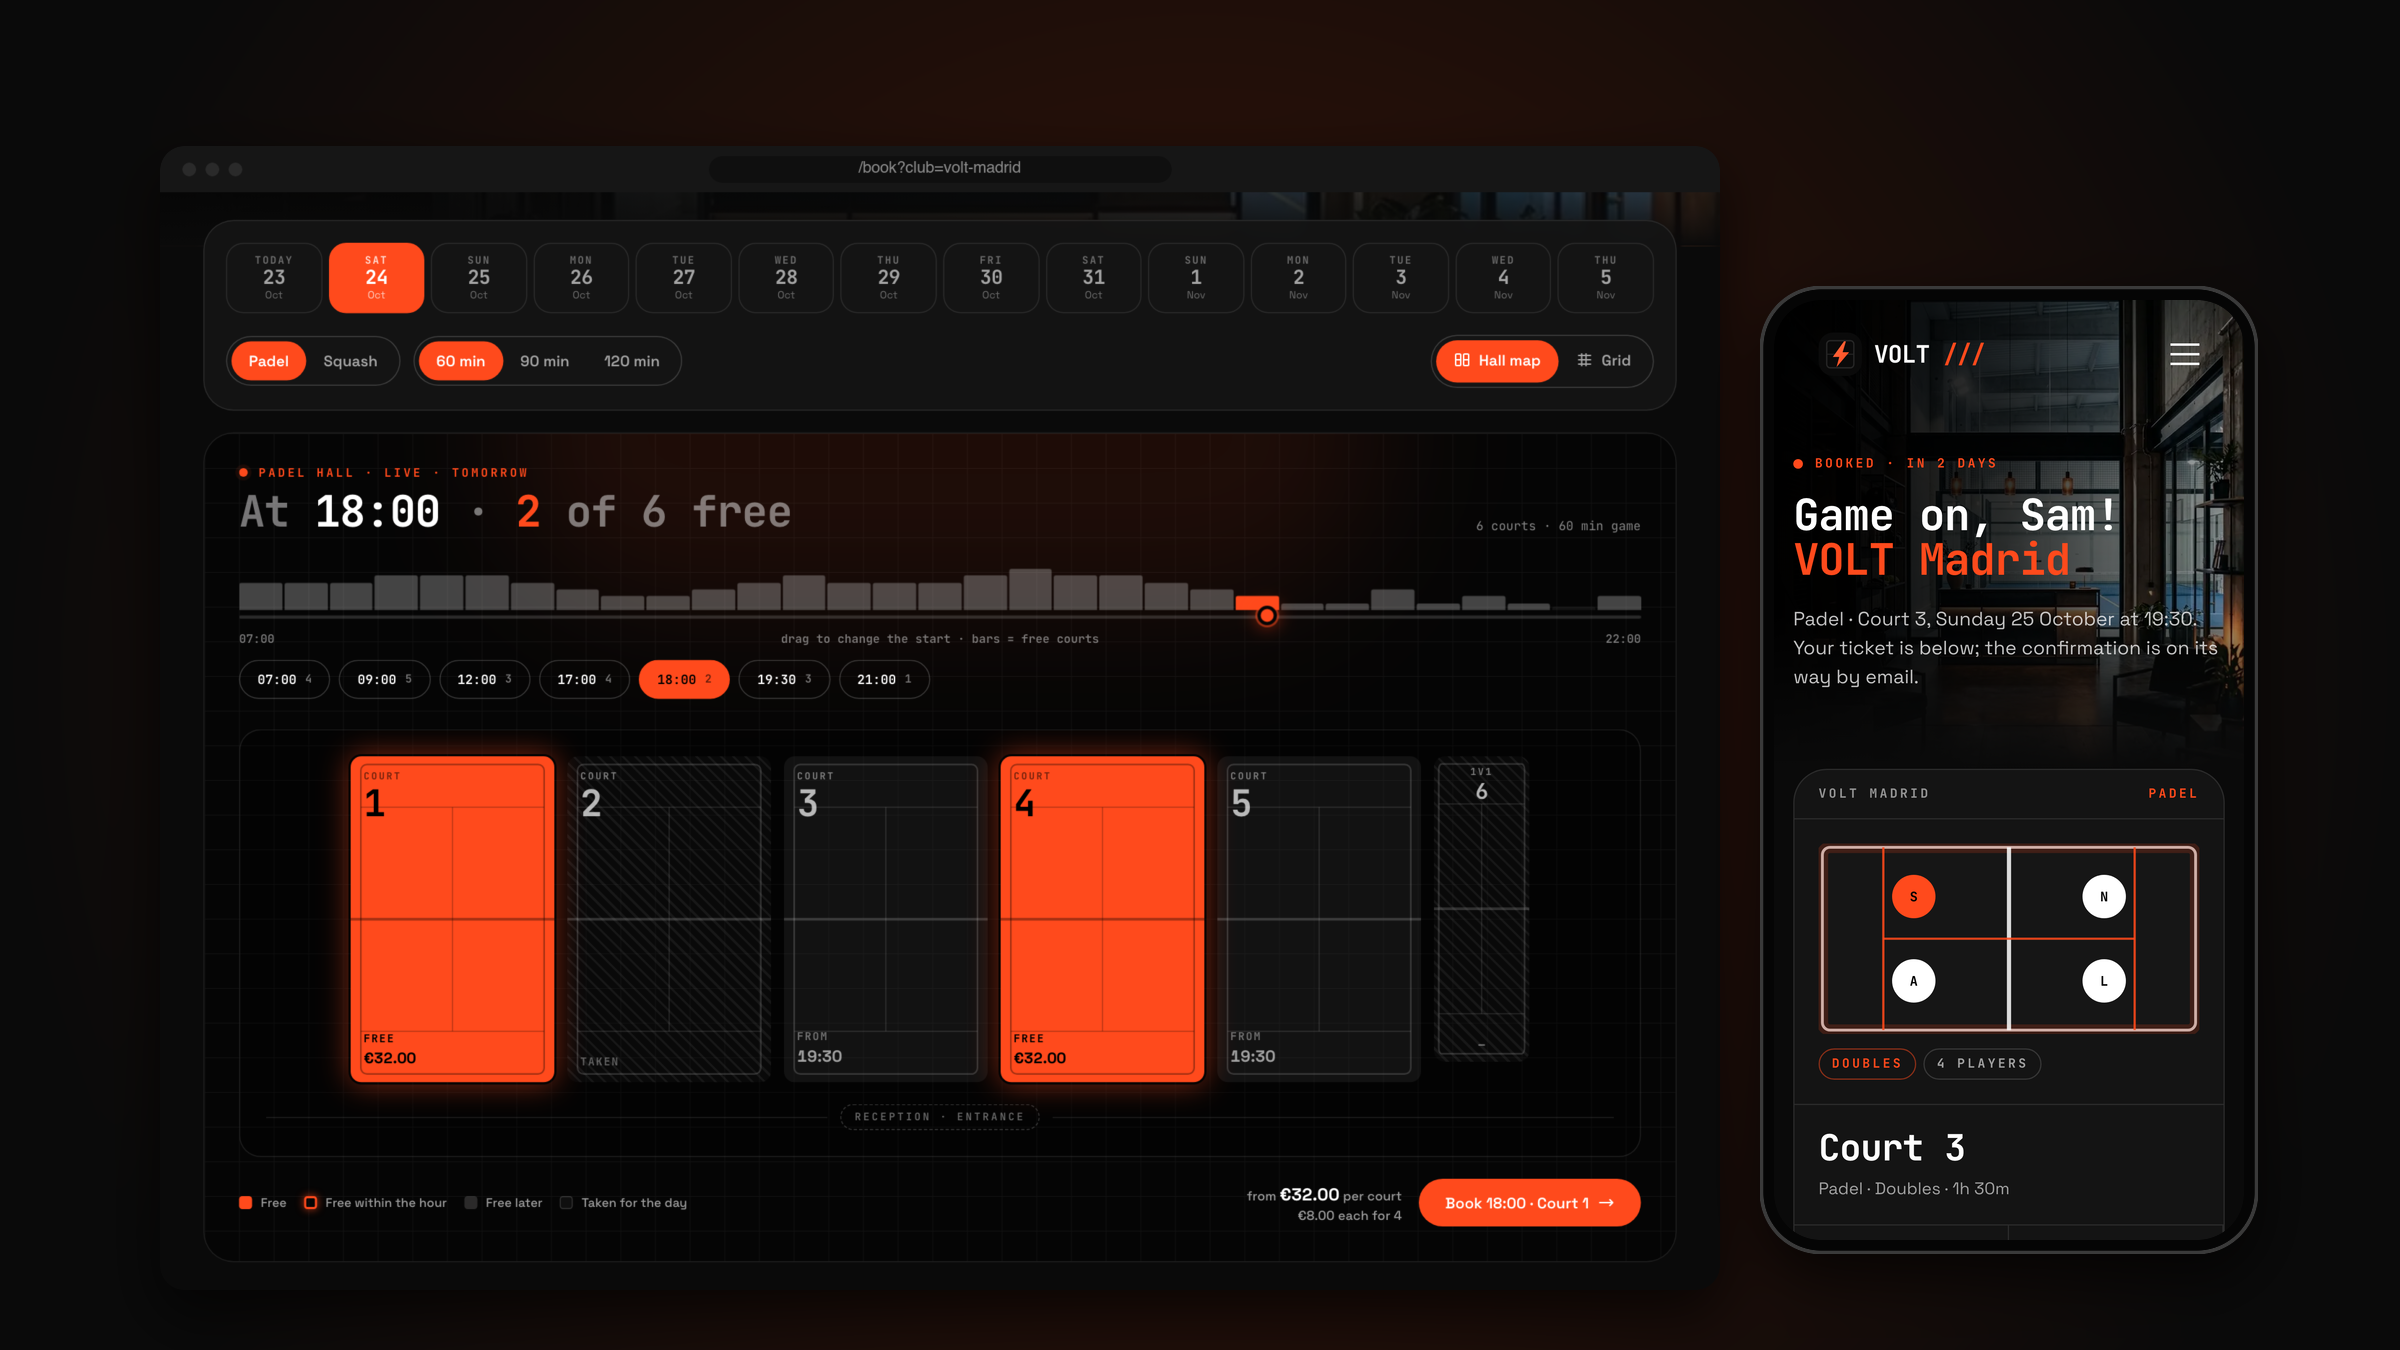
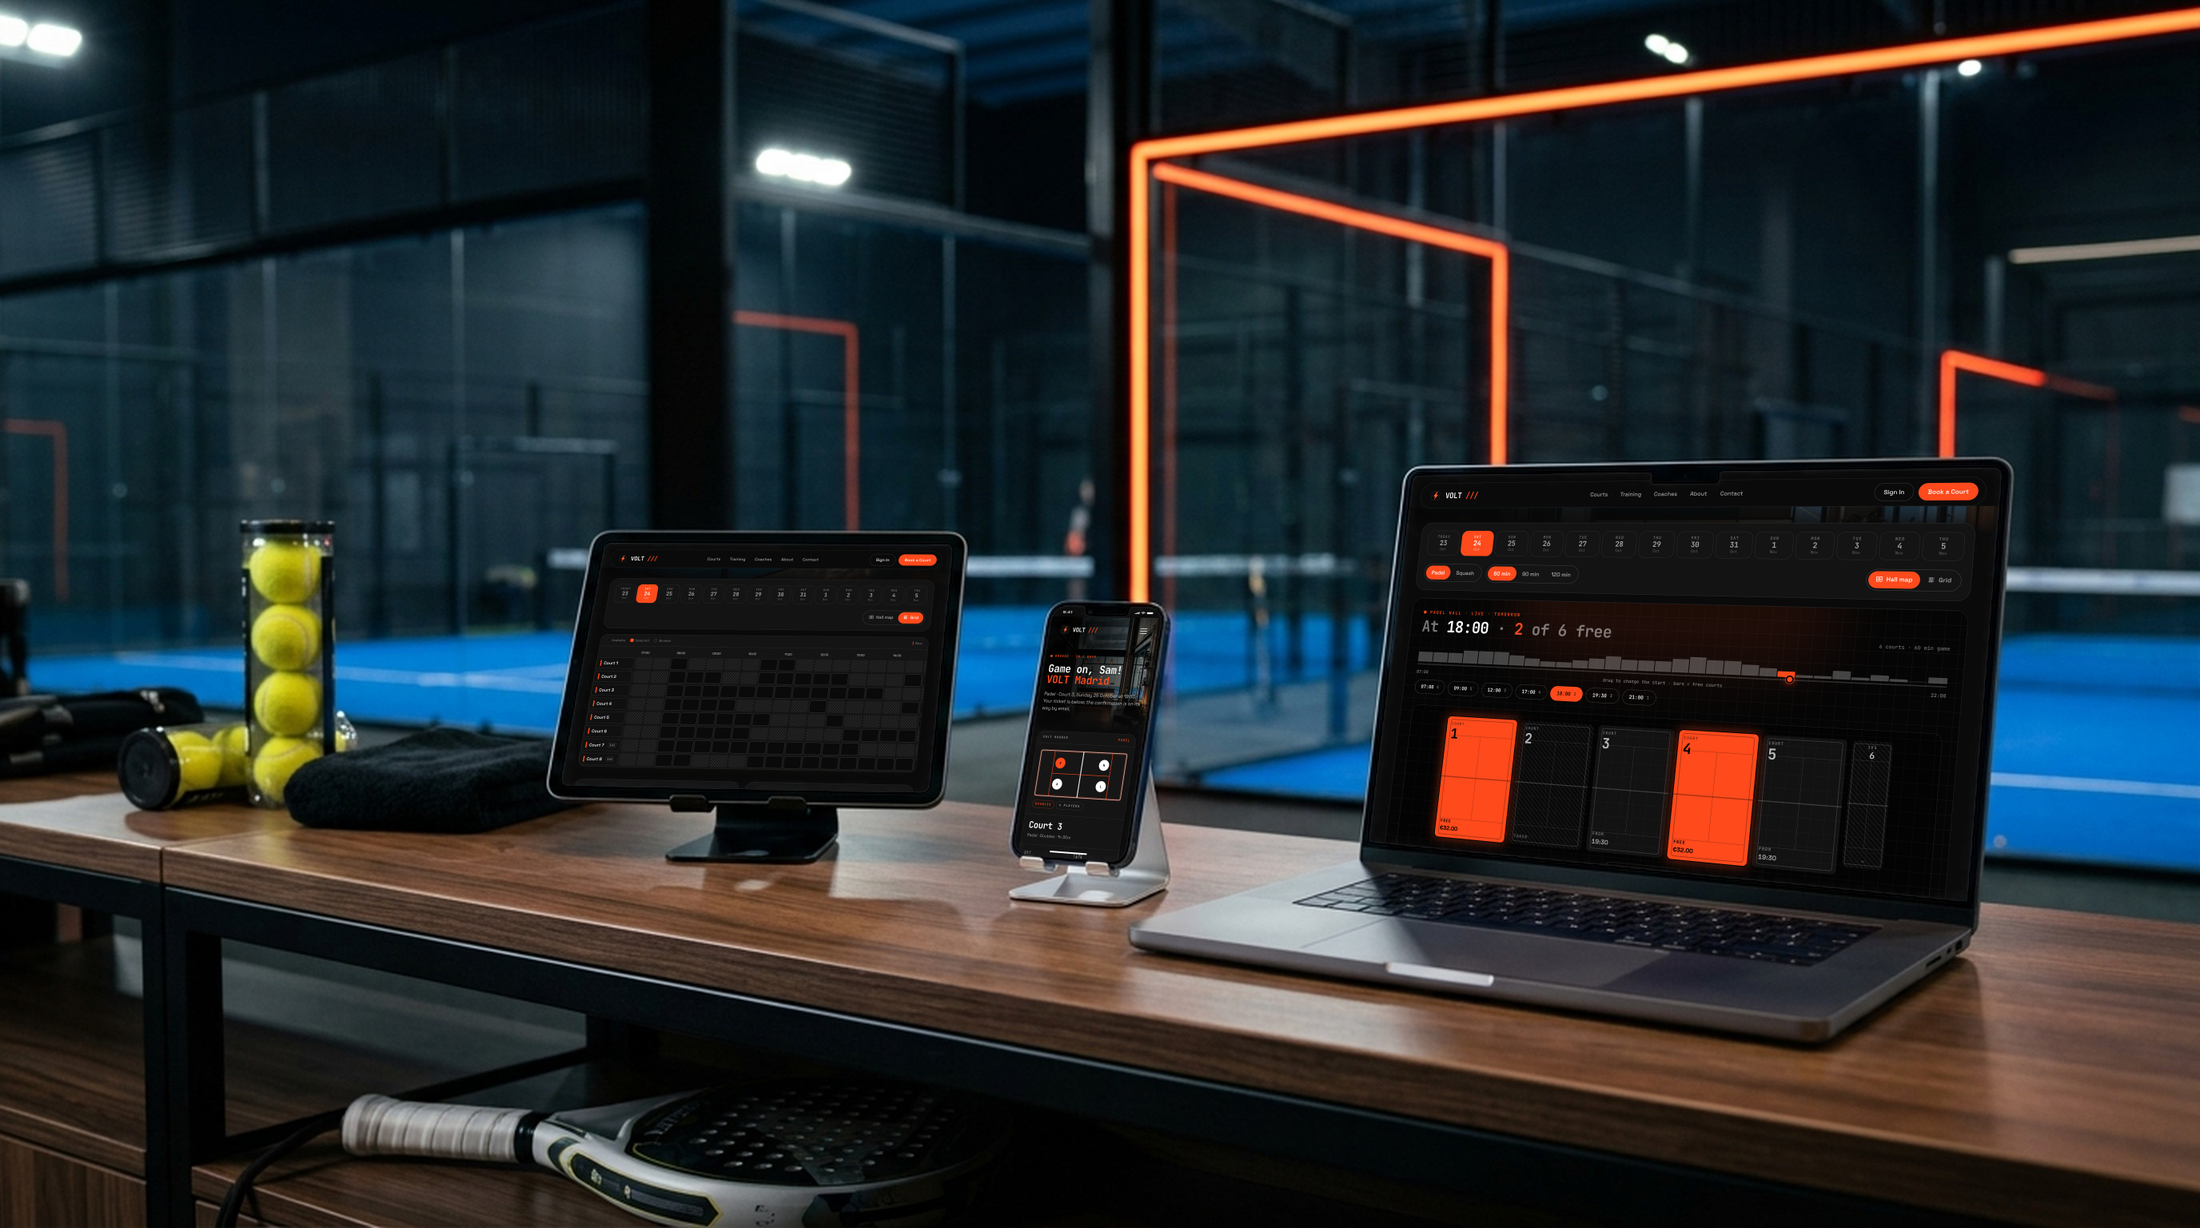
docs: realistic device cover

diff --git a/README.md b/README.md
@@ -4,7 +4,7 @@ A production-ready booking website for padel & squash clubs. Built with **Next.j
 
 **[View Live Demo →](https://template-volt.vercel.app)**
 
-![VOLT Padel & Squash Club — the hall map on desktop and the match ticket on mobile](docs/cover.png)
+![VOLT Padel & Squash Club — the hall map on a laptop, the court grid on a tablet and the match ticket on a phone, at a club reception counter](docs/cover.png)
 
 A dark, technical club aesthetic — near-black surfaces, electric-orange accent, and a monospace display face — for a **multi-club network**: a club-first, full-screen **court booking page** (a live hall map of every court, or a courts × time grid) for rentals, and a classic **coach-led training flow** for lessons and group classes. Full storefront included — courts, trainings, coaches, checkout, customer accounts — wired up out of the box. MIT licensed: clone it, rebrand it, ship it.
 
